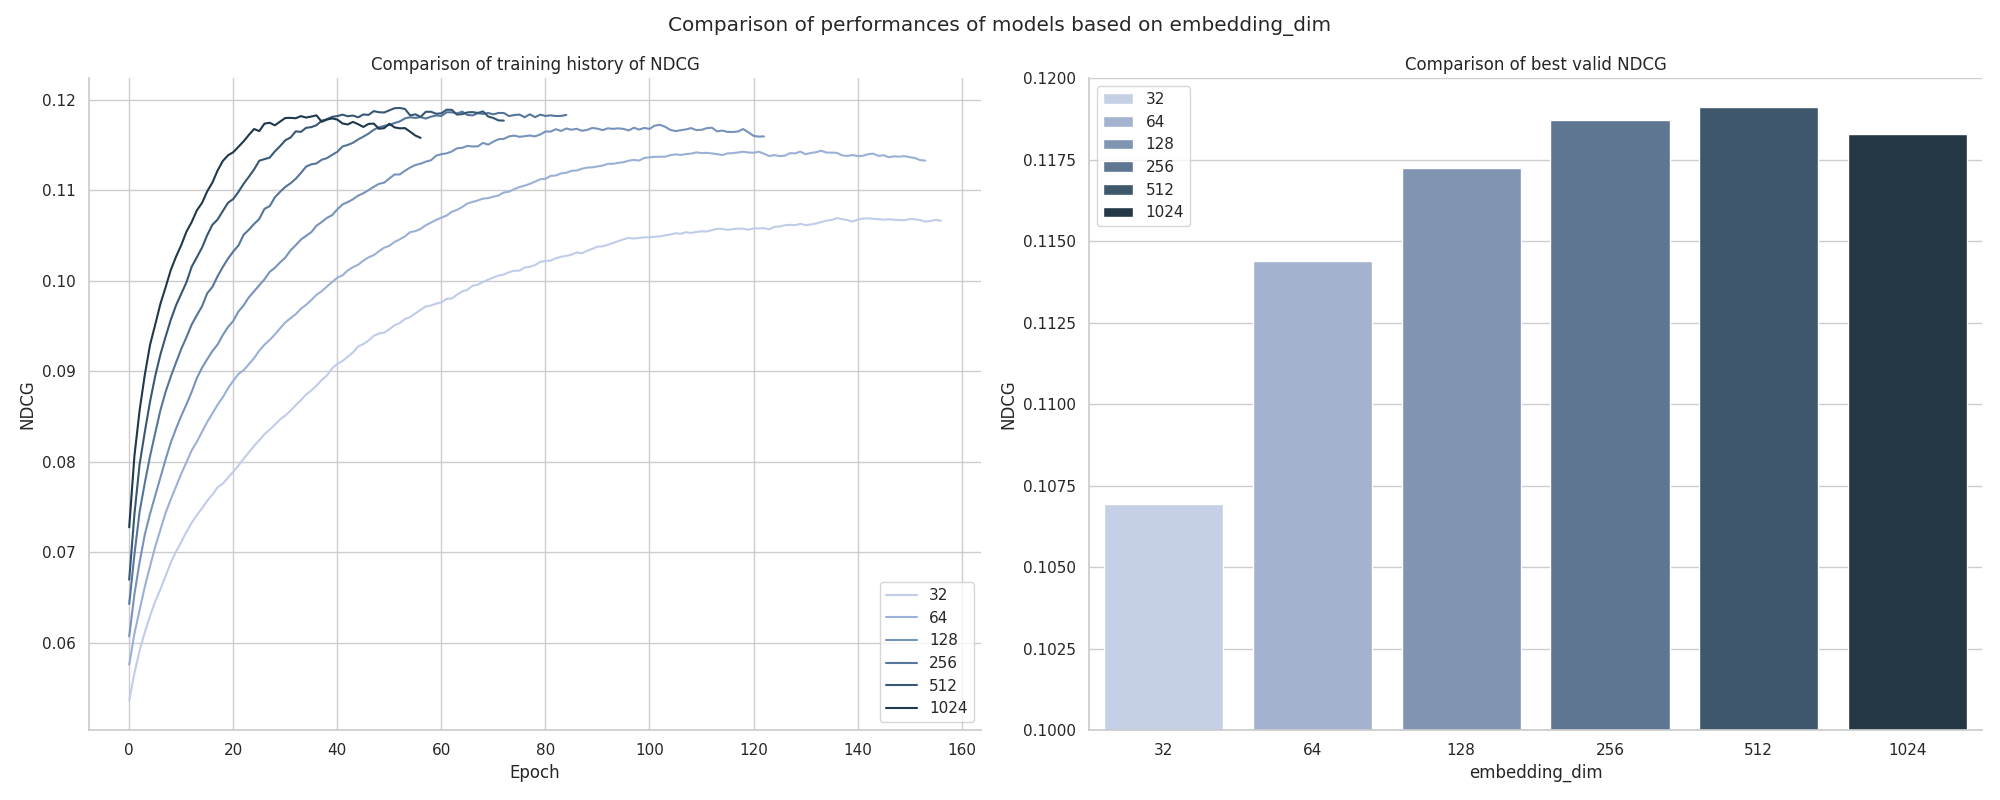
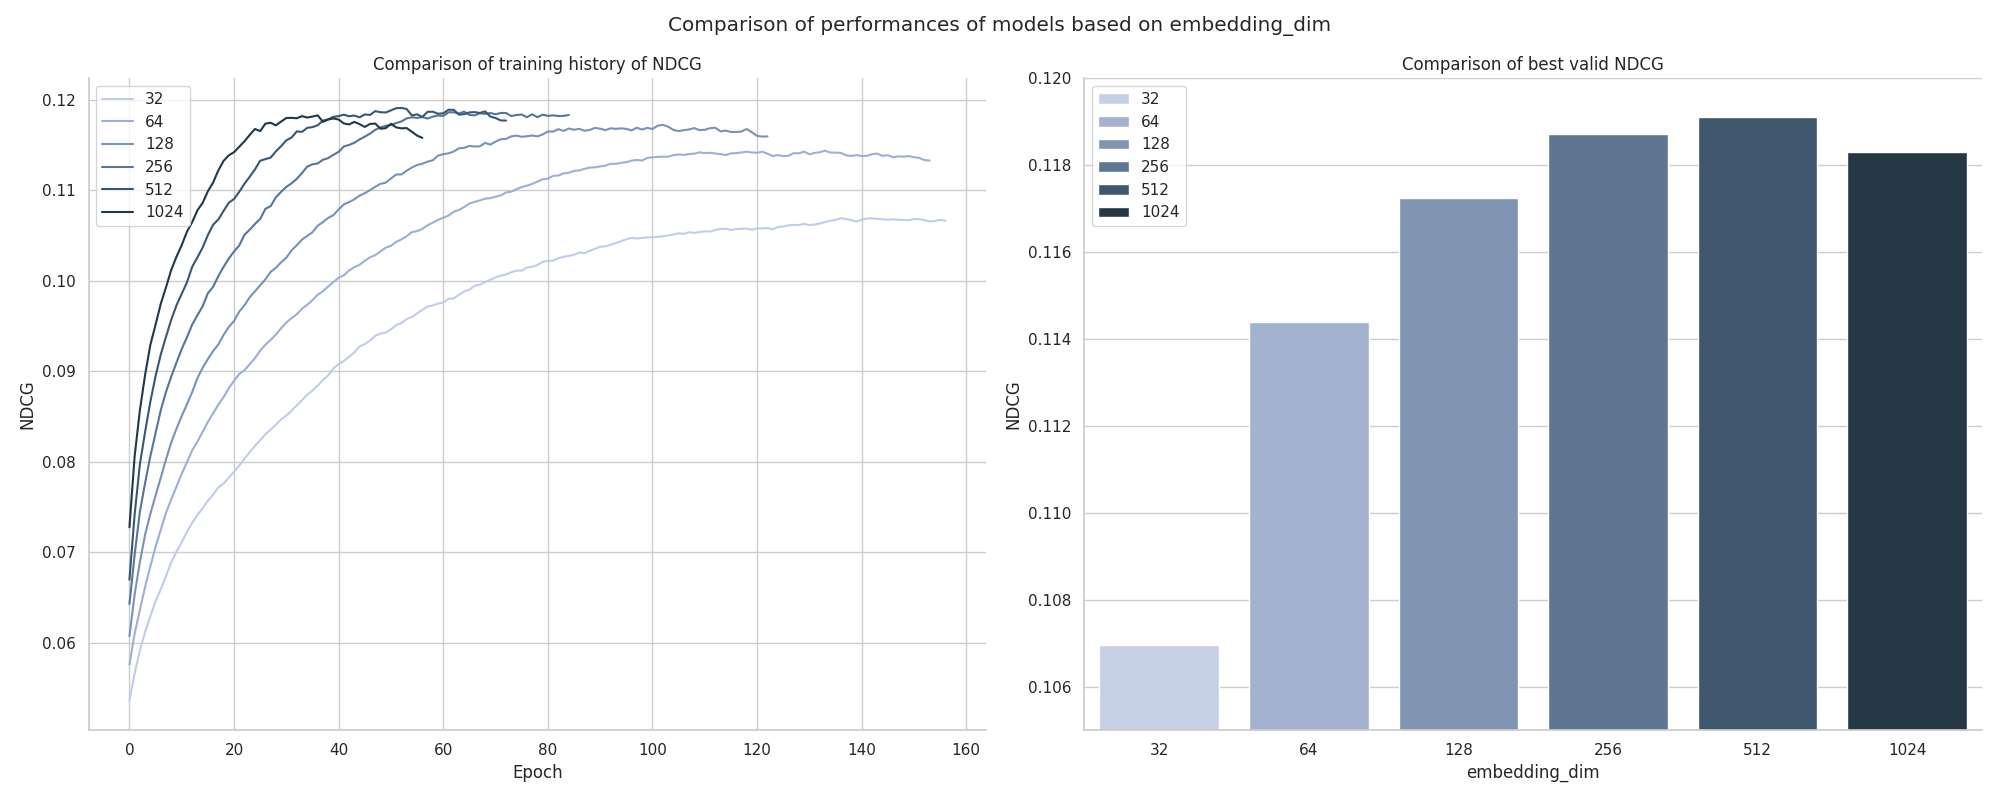
change ylim setting

diff --git a/evaluation/compare_models.py b/evaluation/compare_models.py
@@ -53,8 +53,8 @@ def plot_ndcg_bar(results, ax, palette, target_name, sub_target_name=None):
         results = results[["main_target", "sub_target", "ndcg"]].groupby(["main_target", "sub_target"]).agg("max")
         sns.barplot(results, x="main_target", y="ndcg", ax=ax, hue="sub_target", palette=palette)
 
-    min = math.floor(results["ndcg"].min() * 100) / 100
-    max = math.ceil(results["ndcg"].max() * 100) / 100
+    min = math.floor(results["ndcg"].min() * 200) / 200
+    max = math.ceil(results["ndcg"].max() * 200) / 200
     ax.set_ylim(min, max)
 
     ax.set_title("Comparison of best valid NDCG")
